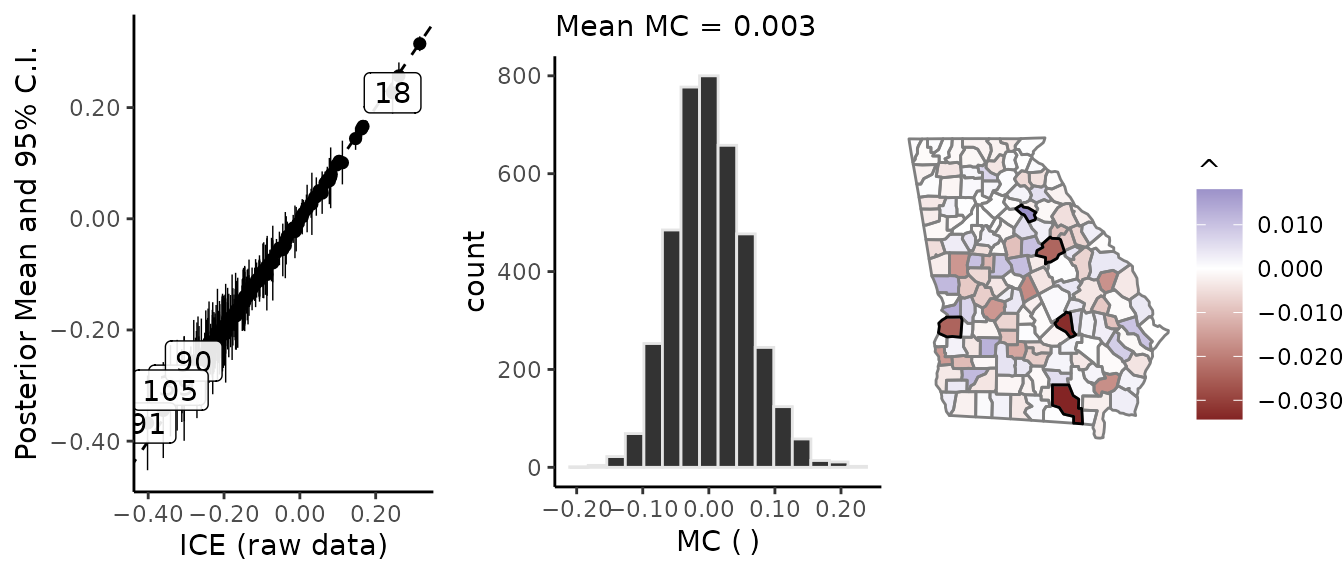
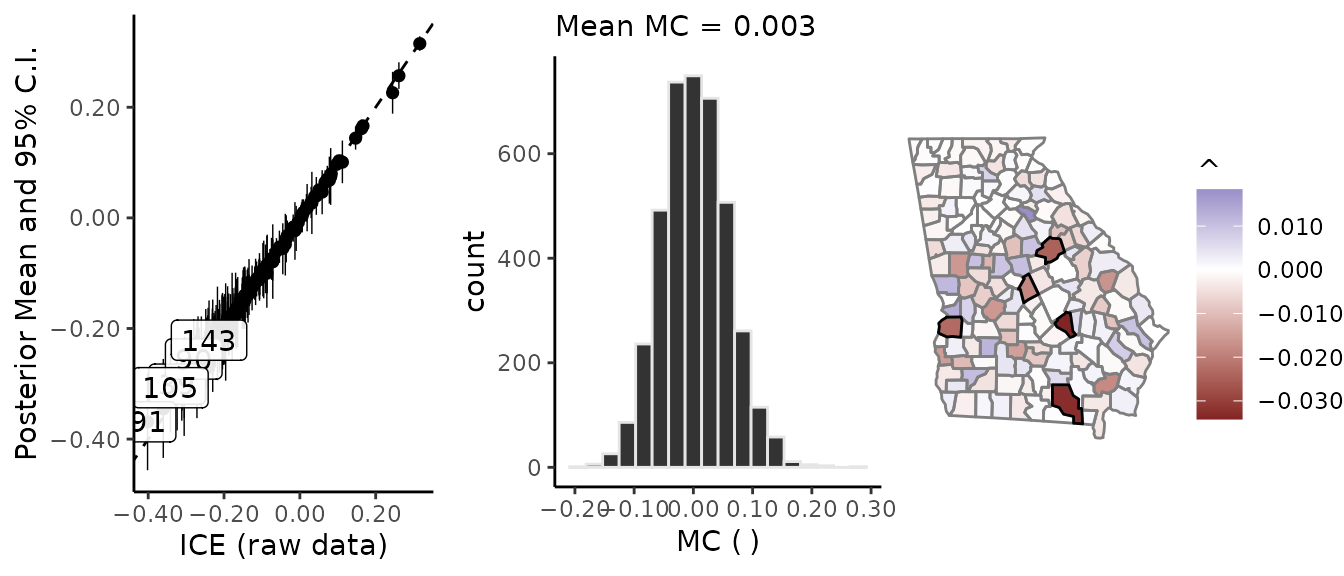
weaker claim

diff --git a/docs/articles/spatial-me-models.html b/docs/articles/spatial-me-models.html
@@ -189,7 +189,7 @@
 <p>As noted previously, <strong>geostan</strong> will use its default priors if none are provided. The following code demonstrates setting custom priors for <span class="math inline">\(\mu\)</span> (location) and <span class="math inline">\(\tau\)</span> (scale) (see <code><a href="../reference/priors.html">?priors</a></code> for details):</p>
 <div class="sourceCode" id="cb13"><pre class="downlit sourceCode r">
 <code class="sourceCode R"><span class="va">ME</span><span class="op">$</span><span class="va">prior</span> <span class="op">&lt;-</span> <span class="fu"><a href="https://rdrr.io/r/base/list.html" class="external-link">list</a></span><span class="op">(</span>location <span class="op">=</span> <span class="fu"><a href="../reference/priors.html">normal</a></span><span class="op">(</span>location <span class="op">=</span> <span class="fl">0</span>, scale <span class="op">=</span> <span class="fl">0.5</span><span class="op">)</span>,
-                 scale <span class="op">=</span> <span class="fu"><a href="https://connordonegan.github.io/geostan//reference/priors.html">student_t</a></span><span class="op">(</span>df <span class="op">=</span> <span class="fl">10</span>, location <span class="op">=</span> <span class="fl">0</span>, scale <span class="op">=</span> <span class="fl">1</span><span class="op">)</span>
+                 scale <span class="op">=</span> <span class="fu"><a href="https://connordonegan.github.io/geostan/reference/priors.html">student_t</a></span><span class="op">(</span>df <span class="op">=</span> <span class="fl">10</span>, location <span class="op">=</span> <span class="fl">0</span>, scale <span class="op">=</span> <span class="fl">1</span><span class="op">)</span>
 <span class="op">)</span></code></pre></div>
 <p>To sample from our spatial ME model alone, we pass our list of <code>ME</code> data to <code>stan_glm</code> and use <code>prior_only = TRUE</code>:</p>
 <div class="sourceCode" id="cb14"><pre class="downlit sourceCode r">
@@ -218,8 +218,8 @@
 ## 
 ## SAMPLING FOR MODEL 'foundation' NOW (CHAIN 1).
 ## Chain 1: 
-## Chain 1: Gradient evaluation took 0.000113 seconds
-## Chain 1: 1000 transitions using 10 leapfrog steps per transition would take 1.13 seconds.
+## Chain 1: Gradient evaluation took 0.000132 seconds
+## Chain 1: 1000 transitions using 10 leapfrog steps per transition would take 1.32 seconds.
 ## Chain 1: Adjust your expectations accordingly!
 ## Chain 1: 
 ## Chain 1: 
@@ -228,15 +228,15 @@
 ## Chain 1: Iteration: 1001 / 2000 [ 50%]  (Sampling)
 ## Chain 1: Iteration: 2000 / 2000 [100%]  (Sampling)
 ## Chain 1: 
-## Chain 1:  Elapsed Time: 1.73446 seconds (Warm-up)
-## Chain 1:                1.37428 seconds (Sampling)
-## Chain 1:                3.10875 seconds (Total)
+## Chain 1:  Elapsed Time: 1.70693 seconds (Warm-up)
+## Chain 1:                1.35002 seconds (Sampling)
+## Chain 1:                3.05695 seconds (Total)
 ## Chain 1: 
 ## 
 ## SAMPLING FOR MODEL 'foundation' NOW (CHAIN 2).
 ## Chain 2: 
-## Chain 2: Gradient evaluation took 0.000106 seconds
-## Chain 2: 1000 transitions using 10 leapfrog steps per transition would take 1.06 seconds.
+## Chain 2: Gradient evaluation took 0.000126 seconds
+## Chain 2: 1000 transitions using 10 leapfrog steps per transition would take 1.26 seconds.
 ## Chain 2: Adjust your expectations accordingly!
 ## Chain 2: 
 ## Chain 2: 
@@ -245,15 +245,15 @@
 ## Chain 2: Iteration: 1001 / 2000 [ 50%]  (Sampling)
 ## Chain 2: Iteration: 2000 / 2000 [100%]  (Sampling)
 ## Chain 2: 
-## Chain 2:  Elapsed Time: 1.78442 seconds (Warm-up)
-## Chain 2:                1.45909 seconds (Sampling)
-## Chain 2:                3.24351 seconds (Total)
+## Chain 2:  Elapsed Time: 1.81636 seconds (Warm-up)
+## Chain 2:                1.36855 seconds (Sampling)
+## Chain 2:                3.18491 seconds (Total)
 ## Chain 2: 
 ## 
 ## SAMPLING FOR MODEL 'foundation' NOW (CHAIN 3).
 ## Chain 3: 
-## Chain 3: Gradient evaluation took 0.00016 seconds
-## Chain 3: 1000 transitions using 10 leapfrog steps per transition would take 1.6 seconds.
+## Chain 3: Gradient evaluation took 0.000165 seconds
+## Chain 3: 1000 transitions using 10 leapfrog steps per transition would take 1.65 seconds.
 ## Chain 3: Adjust your expectations accordingly!
 ## Chain 3: 
 ## Chain 3: 
@@ -262,15 +262,15 @@
 ## Chain 3: Iteration: 1001 / 2000 [ 50%]  (Sampling)
 ## Chain 3: Iteration: 2000 / 2000 [100%]  (Sampling)
 ## Chain 3: 
-## Chain 3:  Elapsed Time: 1.92641 seconds (Warm-up)
-## Chain 3:                1.42435 seconds (Sampling)
-## Chain 3:                3.35076 seconds (Total)
+## Chain 3:  Elapsed Time: 1.54832 seconds (Warm-up)
+## Chain 3:                1.52545 seconds (Sampling)
+## Chain 3:                3.07378 seconds (Total)
 ## Chain 3: 
 ## 
 ## SAMPLING FOR MODEL 'foundation' NOW (CHAIN 4).
 ## Chain 4: 
-## Chain 4: Gradient evaluation took 0.000113 seconds
-## Chain 4: 1000 transitions using 10 leapfrog steps per transition would take 1.13 seconds.
+## Chain 4: Gradient evaluation took 0.000104 seconds
+## Chain 4: 1000 transitions using 10 leapfrog steps per transition would take 1.04 seconds.
 ## Chain 4: Adjust your expectations accordingly!
 ## Chain 4: 
 ## Chain 4: 
@@ -279,9 +279,9 @@
 ## Chain 4: Iteration: 1001 / 2000 [ 50%]  (Sampling)
 ## Chain 4: Iteration: 2000 / 2000 [100%]  (Sampling)
 ## Chain 4: 
-## Chain 4:  Elapsed Time: 1.91875 seconds (Warm-up)
-## Chain 4:                1.40627 seconds (Sampling)
-## Chain 4:                3.32502 seconds (Total)
+## Chain 4:  Elapsed Time: 1.77551 seconds (Warm-up)
+## Chain 4:                1.38446 seconds (Sampling)
+## Chain 4:                3.15998 seconds (Total)
 ## Chain 4:</code></pre>
 <p>Note that <code>prior_only = TRUE</code> will prevent <code>stan_glm</code> from considering the likelihood of the outcome, <code>log(rate.male)</code>; to facilitate a valid workflow, the entire ME model is treated as part of the “prior” by <code>prior_only</code>. This allows us to understand the properties of the ME model itself, considered independently from any outcome variable.</p>
 </div>
@@ -314,23 +314,23 @@
 <code class="sourceCode R"><span class="fu"><a href="../reference/me_diag.html">me_diag</a></span><span class="op">(</span><span class="va">fit</span>, <span class="st">'ICE'</span>, <span class="va">georgia</span>, index <span class="op">=</span> <span class="fl">5</span><span class="op">)</span></code></pre></div>
 <pre><code>## Identifying the top 5 observations as ordered by their Delta values (Delta = posterior mean of x - raw x value):</code></pre>
 <pre><code>##                 x.raw       x.mu      x.lwr      x.upr       Delta
-## x_ICE[91]  -0.4016787 -0.3673749 -0.4522989 -0.2819725 -0.03430378
-## x_ICE[105] -0.3412494 -0.3081751 -0.3914313 -0.2272077 -0.03307424
-## x_ICE[39]  -0.3236583 -0.2994201 -0.3809953 -0.2178210 -0.02423818
-## x_ICE[90]  -0.2798395 -0.2558707 -0.3289926 -0.1820006 -0.02396886
-## x_ICE[18]   0.2446345  0.2266146  0.1891846  0.2629298  0.01801990</code></pre>
+## x_ICE[105] -0.3412494 -0.3070672 -0.3879118 -0.2282492 -0.03418212
+## x_ICE[91]  -0.4016787 -0.3687190 -0.4562764 -0.2803918 -0.03295963
+## x_ICE[90]  -0.2798395 -0.2552535 -0.3289484 -0.1830698 -0.02458606
+## x_ICE[39]  -0.3236583 -0.3006336 -0.3842532 -0.2170780 -0.02302472
+## x_ICE[143] -0.2395249 -0.2211420 -0.2909980 -0.1493183 -0.01838295</code></pre>
 <p><img src="spatial-me-models_files/figure-html/unnamed-chunk-10-1.png" width="672" style="display: block; margin: auto;"></p>
 <p>Or, we can have <code>me_diag</code> return results as raw data (it will also return a list of <code>ggplots</code>):</p>
 <div class="sourceCode" id="cb30"><pre class="downlit sourceCode r">
 <code class="sourceCode R"><span class="va">delta</span> <span class="op">&lt;-</span> <span class="fu"><a href="../reference/me_diag.html">me_diag</a></span><span class="op">(</span><span class="va">fit</span>, <span class="st">'ICE'</span>, <span class="va">georgia</span>, plot <span class="op">=</span> <span class="cn">FALSE</span><span class="op">)</span><span class="op">$</span><span class="va">delta_data</span>
 <span class="fu"><a href="https://rdrr.io/r/utils/head.html" class="external-link">head</a></span><span class="op">(</span><span class="va">delta</span><span class="op">)</span></code></pre></div>
 <pre><code>##                x.raw        x.mu       x.lwr        x.upr         Delta
-## x_ICE[1] -0.24576780 -0.23664355 -0.28995218 -0.182461523 -9.124247e-03
-## x_ICE[2] -0.27540984 -0.26718164 -0.32278579 -0.213899116 -8.228199e-03
-## x_ICE[3] -0.01856313 -0.01803473 -0.03384982 -0.002093349 -5.284026e-04
-## x_ICE[4]  0.05059098  0.05052200  0.04253912  0.058567293  6.898145e-05
-## x_ICE[5]  0.14701110  0.14424974  0.12399113  0.164146301  2.761359e-03
-## x_ICE[6]  0.16649112  0.16619894  0.15781477  0.174777240  2.921749e-04</code></pre>
+## x_ICE[1] -0.24576780 -0.23664164 -0.28900436 -0.183201886 -9.126156e-03
+## x_ICE[2] -0.27540984 -0.26752474 -0.32217397 -0.211567974 -7.885091e-03
+## x_ICE[3] -0.01856313 -0.01822699 -0.03428974 -0.001731015 -3.361490e-04
+## x_ICE[4]  0.05059098  0.05058446  0.04310448  0.058036817  6.520035e-06
+## x_ICE[5]  0.14701110  0.14415492  0.12344183  0.164902929  2.856185e-03
+## x_ICE[6]  0.16649112  0.16630259  0.15801271  0.174541712  1.885245e-04</code></pre>
 <p>We can follow up on this information by examining demographic information on the counties with the largest <span class="math inline">\(\delta_i\)</span>:</p>
 <div class="sourceCode" id="cb32"><pre class="downlit sourceCode r">
 <code class="sourceCode R"><span class="va">georgia</span><span class="op">[</span><span class="fu"><a href="https://rdrr.io/r/base/c.html" class="external-link">c</a></span><span class="op">(</span><span class="fl">91</span>, <span class="fl">105</span>, <span class="fl">90</span>, <span class="fl">39</span>, <span class="fl">18</span><span class="op">)</span>, <span class="fu"><a href="https://rdrr.io/r/base/c.html" class="external-link">c</a></span><span class="op">(</span><span class="st">"NAME"</span>, <span class="st">"population"</span>, <span class="st">"white"</span>, <span class="st">"black"</span>, <span class="st">"hisp"</span>, <span class="st">"ai"</span>, <span class="st">"ICE"</span>, <span class="st">"ICE.se"</span>, <span class="st">"college"</span>, <span class="st">"college.se"</span><span class="op">)</span><span class="op">]</span></code></pre></div>
@@ -369,7 +369,7 @@
 <pre><code>## [1] 4000    1</code></pre>
 <div class="sourceCode" id="cb38"><pre class="downlit sourceCode r">
 <code class="sourceCode R"><span class="fu"><a href="https://rdrr.io/r/base/mean.html" class="external-link">mean</a></span><span class="op">(</span><span class="va">mu.x</span><span class="op">)</span></code></pre></div>
-<pre><code>## [1] -0.1263227</code></pre>
+<pre><code>## [1] -0.1280951</code></pre>
 <p>We can visualize these using <code>plot</code>:</p>
 <div class="sourceCode" id="cb40"><pre class="downlit sourceCode r">
 <code class="sourceCode R"><span class="fu"><a href="https://rdrr.io/r/graphics/plot.default.html" class="external-link">plot</a></span><span class="op">(</span><span class="va">fit</span>, pars <span class="op">=</span> <span class="fu"><a href="https://rdrr.io/r/base/c.html" class="external-link">c</a></span><span class="op">(</span><span class="st">"mu_x_true"</span>, <span class="st">"car_rho_x_true"</span>, <span class="st">"sigma_x_true"</span><span class="op">)</span><span class="op">)</span></code></pre></div>
@@ -385,7 +385,7 @@
 <code class="sourceCode R"><span class="va">x.mu</span> <span class="op">&lt;-</span> <span class="fu"><a href="https://rdrr.io/r/base/apply.html" class="external-link">apply</a></span><span class="op">(</span><span class="va">x</span>, <span class="fl">2</span>, <span class="va">mean</span><span class="op">)</span>
 <span class="fu"><a href="https://rdrr.io/r/utils/head.html" class="external-link">head</a></span><span class="op">(</span><span class="va">x.mu</span><span class="op">)</span></code></pre></div>
 <pre><code>##    x_ICE[1]    x_ICE[2]    x_ICE[3]    x_ICE[4]    x_ICE[5]    x_ICE[6] 
-## -0.23664355 -0.26718164 -0.01803473  0.05052200  0.14424974  0.16619894</code></pre>
+## -0.23664164 -0.26752474 -0.01822699  0.05058446  0.14415492  0.16630259</code></pre>
 </div>
 </div>
 <div id="non-spatial-me-models" class="section level2">
@@ -395,8 +395,7 @@
 <div class="sourceCode" id="cb46"><pre class="downlit sourceCode r">
 <code class="sourceCode R"><span class="va">ME_nsp</span> <span class="op">&lt;-</span> <span class="va">ME</span>
 <span class="va">ME_nsp</span><span class="op">$</span><span class="va">car_parts</span> <span class="op">&lt;-</span> <span class="cn">NULL</span>
- <span class="co"># refresh = 0 stops Stan from printing MCMC status updates</span>
-<span class="va">fit_nsp</span> <span class="op">&lt;-</span> <span class="fu"><a href="../reference/stan_glm.html">stan_glm</a></span><span class="op">(</span><span class="fu"><a href="https://rdrr.io/r/base/Log.html" class="external-link">log</a></span><span class="op">(</span><span class="va">rate.male</span><span class="op">)</span> <span class="op">~</span> <span class="va">ICE</span>, data <span class="op">=</span> <span class="va">georgia</span>, ME <span class="op">=</span> <span class="va">ME_nsp</span>, prior_only <span class="op">=</span> <span class="cn">TRUE</span>, refresh <span class="op">=</span> <span class="fl">0</span><span class="op">)</span></code></pre></div>
+<span class="va">fit_nsp</span> <span class="op">&lt;-</span> <span class="fu"><a href="../reference/stan_glm.html">stan_glm</a></span><span class="op">(</span><span class="fu"><a href="https://rdrr.io/r/base/Log.html" class="external-link">log</a></span><span class="op">(</span><span class="va">rate.male</span><span class="op">)</span> <span class="op">~</span> <span class="va">ICE</span>, data <span class="op">=</span> <span class="va">georgia</span>, ME <span class="op">=</span> <span class="va">ME_nsp</span>, prior_only <span class="op">=</span> <span class="cn">TRUE</span><span class="op">)</span></code></pre></div>
 </div>
 <div id="spatial-regression-with-a-noisy-covariate" class="section level2">
 <h2 class="hasAnchor">
@@ -441,8 +440,8 @@
 ## Spatial method (outcome):  Exchangeable 
 ## Likelihood function:  poisson 
 ## Link function:  log 
-## Residual Moran Coefficient:  0.0353115 
-## WAIC:  1317.52 
+## Residual Moran Coefficient:  0.03551325 
+## WAIC:  1318.57 
 ## Observations:  159 
 ## Data models (ME): ICE
 ##  Data model (ME prior): CAR (auto Gaussian)
@@ -451,11 +450,11 @@
 ## post-warmup draws per chain=1000, total post-warmup draws=4000.
 ## 
 ##             mean se_mean    sd   2.5%    25%    50%    75%  97.5% n_eff  Rhat
-## intercept -4.385   0.001 0.017 -4.419 -4.396 -4.385 -4.373 -4.351   573 1.002
-## ICE       -1.711   0.004 0.104 -1.913 -1.781 -1.714 -1.644 -1.504   688 1.002
-## alpha_tau  0.124   0.000 0.011  0.104  0.116  0.123  0.131  0.147  1651 1.000
+## intercept -4.384   0.001 0.017 -4.416 -4.396 -4.384 -4.373 -4.351   694 1.004
+## ICE       -1.707   0.004 0.102 -1.898 -1.777 -1.711 -1.640 -1.502   731 1.004
+## alpha_tau  0.124   0.000 0.011  0.103  0.116  0.123  0.131  0.147  1689 1.000
 ## 
-## Samples were drawn using NUTS(diag_e) at Fri Sep 24 14:42:35 2021.
+## Samples were drawn using NUTS(diag_e) at Fri Sep 24 14:56:33 2021.
 ## For each parameter, n_eff is a crude measure of effective sample size,
 ## and Rhat is the potential scale reduction factor on split chains (at 
 ## convergence, Rhat=1).</code></pre>
@@ -527,7 +526,7 @@
 <hr>
 <ol>
 <li id="fn1"><p>Since the ICE is a composite variable, its standard errors were created using the Census Bureau’s variance replicate tables <span class="citation">(United States Census Bureau <a href="#ref-census_2019">2019</a>)</span>.<a href="#fnref1" class="footnote-back">↩</a></p></li>
-<li id="fn2"><p>By definition, any systematic pattern in the errors, <span class="math inline">\(\delta_i\)</span>, is not due to sampling error—it is bias, necessarily in addition to sampling error (and spatial patterns that arise by chance are already accounted for in the probability model for sampling error). To model bias would require more information than we have. Hence, we take for granted the structural validity of the survey design for present purposes (i.e., we proceed as if we believed the bias were zero).<a href="#fnref2" class="footnote-back">↩</a></p></li>
+<li id="fn2"><p>By definition, any systematic spatial pattern in the errors, <span class="math inline">\(\delta_i\)</span>, is not due to sampling error—it is bias (and spatial patterns that arise by chance are already accounted for in the probability model for sampling error). To model bias would require more information than we have; these models take for granted the structural validity of the survey design (i.e., we proceed as if we believed the bias were zero).<a href="#fnref2" class="footnote-back">↩</a></p></li>
 <li id="fn3"><p>The critical analysis of ME models facilitated by <code>me_diag</code> is intended to help identify such situations.<a href="#fnref3" class="footnote-back">↩</a></p></li>
 </ol>
 </div>
